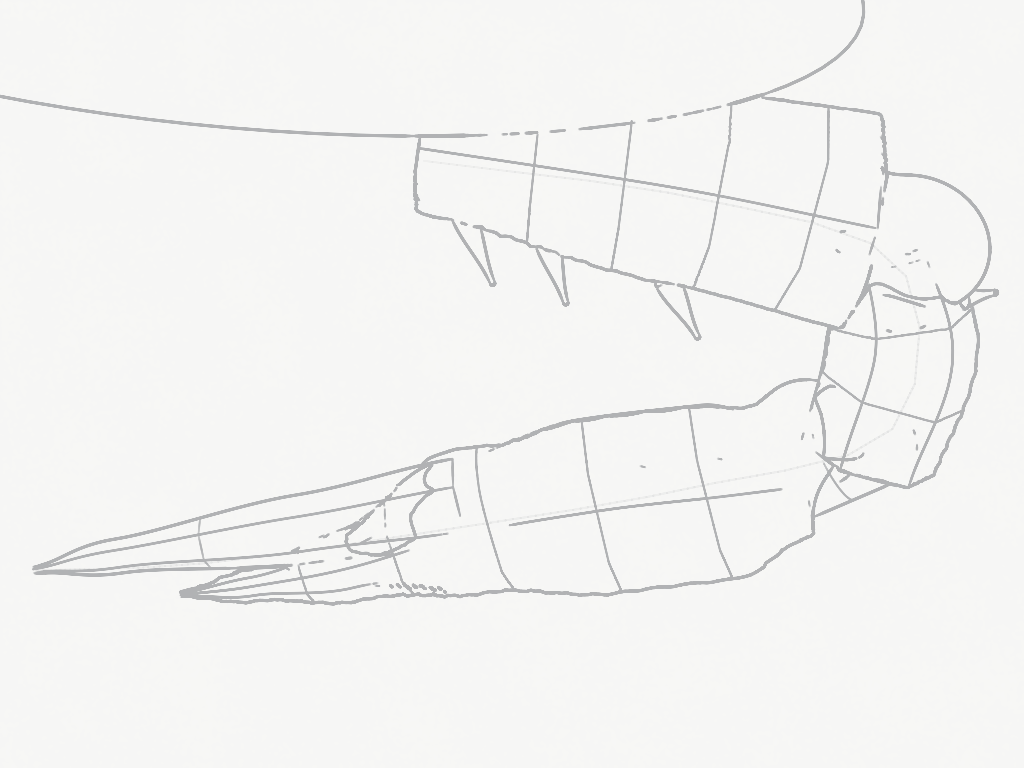
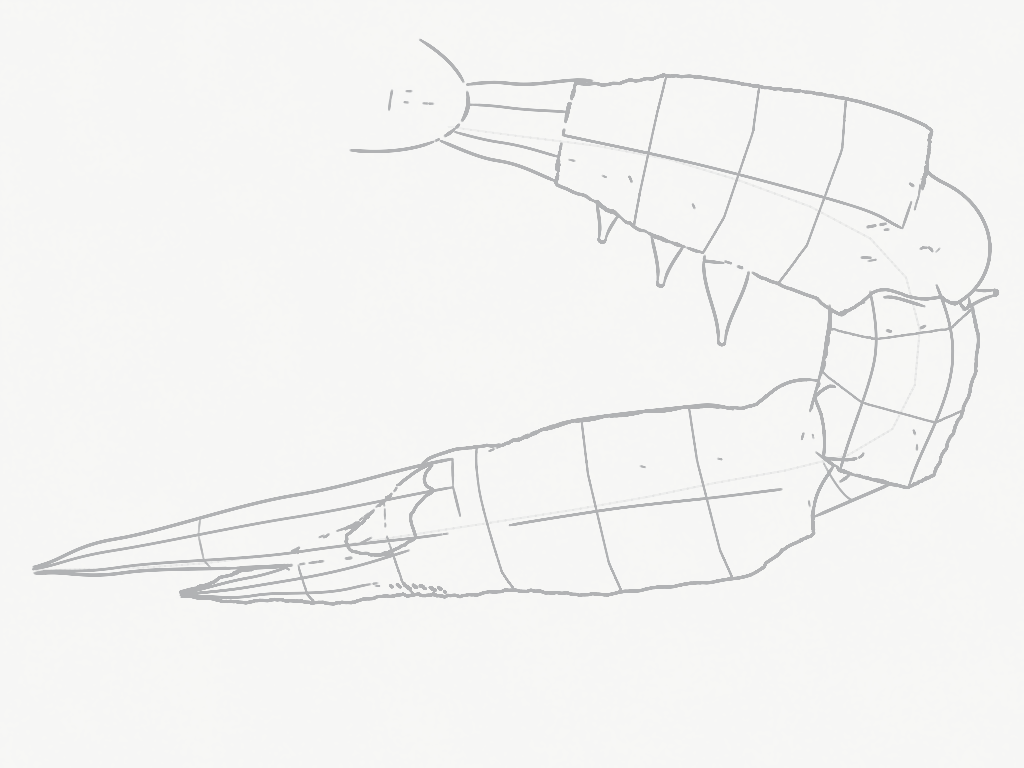
Claw joints: the shoulder segment (in shadow, cream edges) going under the shell's margin; forms can clip their own lines (context that still hides); spines placed and sized from a zoom

diff --git a/drawings/claw-joints.js b/drawings/claw-joints.js
@@ -46,11 +46,24 @@ const along = (pts, cells) => pts.map((q, i) => mm(cells[i], P(q)));
 // from the bottom of that; it came out a thin bar floating above them).
 // the arm (merus): a heavy rounded-triangular bar, from under the shell to the carpus
 // (top edge 690,455 to 880,470; bottom edge through the spine bases 705,512 / 790,540 / 870,560)
-const armPts = [[690, 484, 26], [790, 499, 30], [870, 515, 30]];
-const arm = D.prism({ spine: armPts.map(P), width: along(armPts, [56, 82, 90]), thick: along(armPts, [40, 56, 60]), section: [[1, -0.5], [0.5, 0.6], [0, 1], [-0.5, 0.6], [-1, -0.5], [0, -1]], rings: 2 });
+// (zoomed in: the blue arm's near end is rounded at x ~745; beyond it is the shoulder segment,
+// in shadow so its colour reads dark, with cream edges, partly covered by the shell: the
+// painter, after I'd first drawn it as a fade into shadow)
+const armPts = [[748, 479, 28], [800, 490, 30], [860, 506, 30], [880, 515, 30]];
+const arm = D.prism({ spine: armPts.map(P), width: along(armPts, [44, 70, 83, 86]), thick: along(armPts, [34, 50, 58, 60]), section: [[1, -0.5], [0.5, 0.6], [0, 1], [-0.5, 0.6], [-1, -0.5], [0, -1]], rings: 2 });
+// the shoulder segment: from the arm's end (745, 458-500) narrowing toward the body, a ridge
+// where its top face meets the edge (where the cream edge shows), running on under the shell
+const ischPts = [[756, 479, 27], [722, 474, 27], [676, 468, 26]];
+const ischium = D.prism({ spine: ischPts.map(P), width: along(ischPts, [44, 32, 14]), thick: along(ischPts, [30, 22, 10]),
+  section: [[1, 0], [0.4, 0.8], [-0.5, 0.8], [-1, 0], [-0.4, -0.9], [0.4, -0.9]], rings: 0 });
+// the shell's front margin covering the shoulder's far end: a low, small form, its edge
+// crossing the shoulder at x ~695 (measured zoomed; my earlier big oval wasn't in the photo)
+const front = (() => { const c = P([652, 456, 36]); return D.ellipsoid({ at: c, axes: [mul(norm(sub(P([700, 452, 36]), P([600, 430, 36]))), mm(56, c)), [0, mm(10, c), 0], mul(norm(sub(P([650, 470, 36]), P([650, 410, 36]))), mm(28, c))], contours: 0 }); })();
 // spines along its lower edge, pointing down and forward
-const spines = [[[706, 512, 24], [718, 540, 20]], [[740, 522, 26], [748, 548, 22]], [[790, 540, 26], [802, 562, 22]]]
-  .map(([a, b]) => D.sausage({ spine: [P(a), P(b)], radius: [mm(5, P(a)), 0.3], contours: 0 }));
+// stout white cones with red tips along the arm's lower edge (measured zoomed: the first
+// placing was 50 cells too far left, and needles where they're cones)
+const spines = [[[768, 500, 24], [763, 522, 20], 7], [[792, 512, 24], [787, 540, 20], 9], [[814, 532, 26], [812, 564, 22], 9]]
+  .map(([a, b, r]) => D.sausage({ spine: [P(a), P(b)], radius: [mm(r, P(a)), 0.4], contours: 0 }));
 // the carpus: a compact knobbed block where the limb turns down
 const carpPts = [[878, 524, 30], [886, 566, 28], [872, 612, 24]];
 const carpus = D.prism({ spine: carpPts.map(P), width: along(carpPts, [48, 60, 54]), thick: along(carpPts, [40, 44, 40]), rings: 1 });
@@ -86,14 +99,15 @@ for (let i = 0; i < 5; i++) { const x = 684 - i * 18, y = 657 + i * 2.2; teeth.p
 spines.push(D.sausage({ spine: [P([902, 548, 30]), P([924, 544, 30])], radius: [mm(6, P([902, 548, 30])), 0.3], contours: 0 }));
 spines.push(D.sausage({ spine: [P([862, 552, 28]), P([872, 574, 24])], radius: [mm(5, P([862, 552, 28])), 0.3], contours: 0 }));
 // the shell's front edge, where the arm goes under it
-const shellEdge = (() => { const c = P([600, 405, 36]); return D.ellipsoid({ at: c, axes: [mul(norm(sub(P([900, 470, 36]), P([490, 430, 36]))), mm(260, c)), [0, mm(16, c), 0], mul(norm(sub(P([600, 470, 36]), P([600, 300, 36]))), mm(70, c))], contours: 0 }); })();
+// (the shell edge I drew here as a big oval isn't in the photo: removed)
+const shellEdge0 = (() => { const c = P([600, 405, 36]); return D.ellipsoid({ at: c, axes: [mul(norm(sub(P([900, 470, 36]), P([490, 430, 36]))), mm(260, c)), [0, mm(16, c), 0], mul(norm(sub(P([600, 470, 36]), P([600, 300, 36]))), mm(70, c))], contours: 0 }); })();
 
 // Each segment its own mass, the masses within it blended, the joints between segments kept
 // (blending the whole claw into one surface lost the segments: the painter, "you also lost
 // the segments ;P"). Each segment runs a little into the next, so the joint is an overlap
 // with a meeting line where one tucks into the next.
 const seg = (parts, along, loops) => D.mass({ parts, blend: 4, cell: 0.6, along: along.map(P), loops, crease: 55 });
-const armM = seg([arm, knuckle], [[700, 488, 28], [800, 502, 30], [880, 522, 30]], 4);
+const armM = seg([arm, knuckle], [[750, 479, 28], [800, 490, 30], [880, 518, 30]], 3);
 const carpM = seg([carpus], [[878, 524, 30], [886, 566, 28], [872, 612, 24]], 2);
 // (no separate palm bulge: it covered the palm's ridge, and the palm's own section already swells)
 const propM = seg([palm, wrist, hinge], [[852, 616, 22], [770, 630, 18], [705, 641, 15], [600, 666, 8]], 5);
@@ -102,12 +116,14 @@ window.__paintDone = (async () => {
   h.setPaper('hotPress', 5); h.setTone('white'); S.clear();
   const toView = ([x, y]) => [(x - X0) * k, (y - Y0) * k];
   log('gesture: the whole claw as one hook, then where it turns');
-  await D.pencil([D.gesture([[690, 490], [800, 505], [884, 532], [882, 600], [800, 624], [700, 641], [600, 655], [530, 658]].map(toView))], { weight: { gesture: 0.2 } });
+  await D.pencil([D.gesture([[700, 476], [800, 492], [884, 532], [882, 600], [800, 624], [700, 641], [600, 655], [530, 658]].map(toView))], { weight: { gesture: 0.2 } });
   log('segments with their planes, joints with rims and collars, toothed fingers, spines, the arm under the shell');
   // (teeth left out: from above, the cutting edges face each other and don't show; drawn, they were scratches)
-  const forms = [shellEdge, armM, carpM, propM, dactyl, wristCollar, elbowCollar, ...spines];
+  // only the margin's edge where it crosses the shoulder is drawn (drawn whole, it was an oval)
+  front.clip = toView([660, 440]).concat(toView([720, 500]));
+  const forms = [front, ischium, armM, carpM, propM, dactyl, wristCollar, elbowCollar, ...spines];
   const meets = [D.meet(armM, carpM), D.meet(propM, carpM), D.meet(propM, dactyl), D.meet(carpM, wristCollar), D.meet(propM, wristCollar), D.meet(armM, elbowCollar), D.meet(carpM, elbowCollar),
-    ...spines.slice(0, 3).map(sp => D.meet(armM, sp)), D.meet(carpM, spines[3]), D.meet(armM, spines[4]), D.meet(shellEdge, armM)];
+    ...spines.slice(0, 3).map(sp => D.meet(armM, sp)), D.meet(carpM, spines[3]), D.meet(armM, spines[4]), D.meet(armM, ischium)];
   await D.pencil(D.lines([...forms, ...meets], view));
   await S.look('claw');
 })();

diff --git a/src/drawing.js b/src/drawing.js
@@ -279,7 +279,9 @@ export function makeDrawing(sim) {
         // the ends: each rim edge between its side face and the cap
         for (const [e, i] of [[0, 0], [1, n - 1]]) {
           const capFront = caps[e] && cam.facing(C[i], capN[e]) > 0;
-          for (let k = 0; k < m; k++) { const f = faceN(i, k), side = cam.facing(f.p, f.n) > 0, kind = caps[e] ? cls(side, capFront) : side ? 'silhouette' : 'hidden'; out.push({ kind, pts: [{ p: V[i][k], n: null }, { p: V[i][(k + 1) % m], n: null }] }); }
+          // (an uncapped end is open: it goes under something, into shadow; nothing drawn across it)
+          if (!caps[e]) continue;
+          for (let k = 0; k < m; k++) { const f = faceN(i, k), side = cam.facing(f.p, f.n) > 0, kind = cls(side, capFront); out.push({ kind, pts: [{ p: V[i][k], n: null }, { p: V[i][(k + 1) % m], n: null }] }); }
         }
         // cross-section contours along it
         for (let r = 1; r <= rings; r++) {
@@ -491,6 +493,9 @@ export function makeDrawing(sim) {
         for (const q of fine) {
           const [x, y, z] = cam.project(q.p);
           let seen = ln.kind !== 'hidden' && (!q.n || cam.facing(q.p, q.n) > 0);
+          // a form with a clip box [x0, y0, x1, y1] on the sheet draws only there (still hiding
+          // what's behind it everywhere): context, like the edge of a shell a limb goes under
+          if (seen && f.clip && (x < f.clip[0] || y < f.clip[1] || x > f.clip[2] || y > f.clip[3])) seen = false;
           if (seen) {
             // hidden by another, nearer form here?
             const xi = Math.round(x), yi = Math.round(y);
